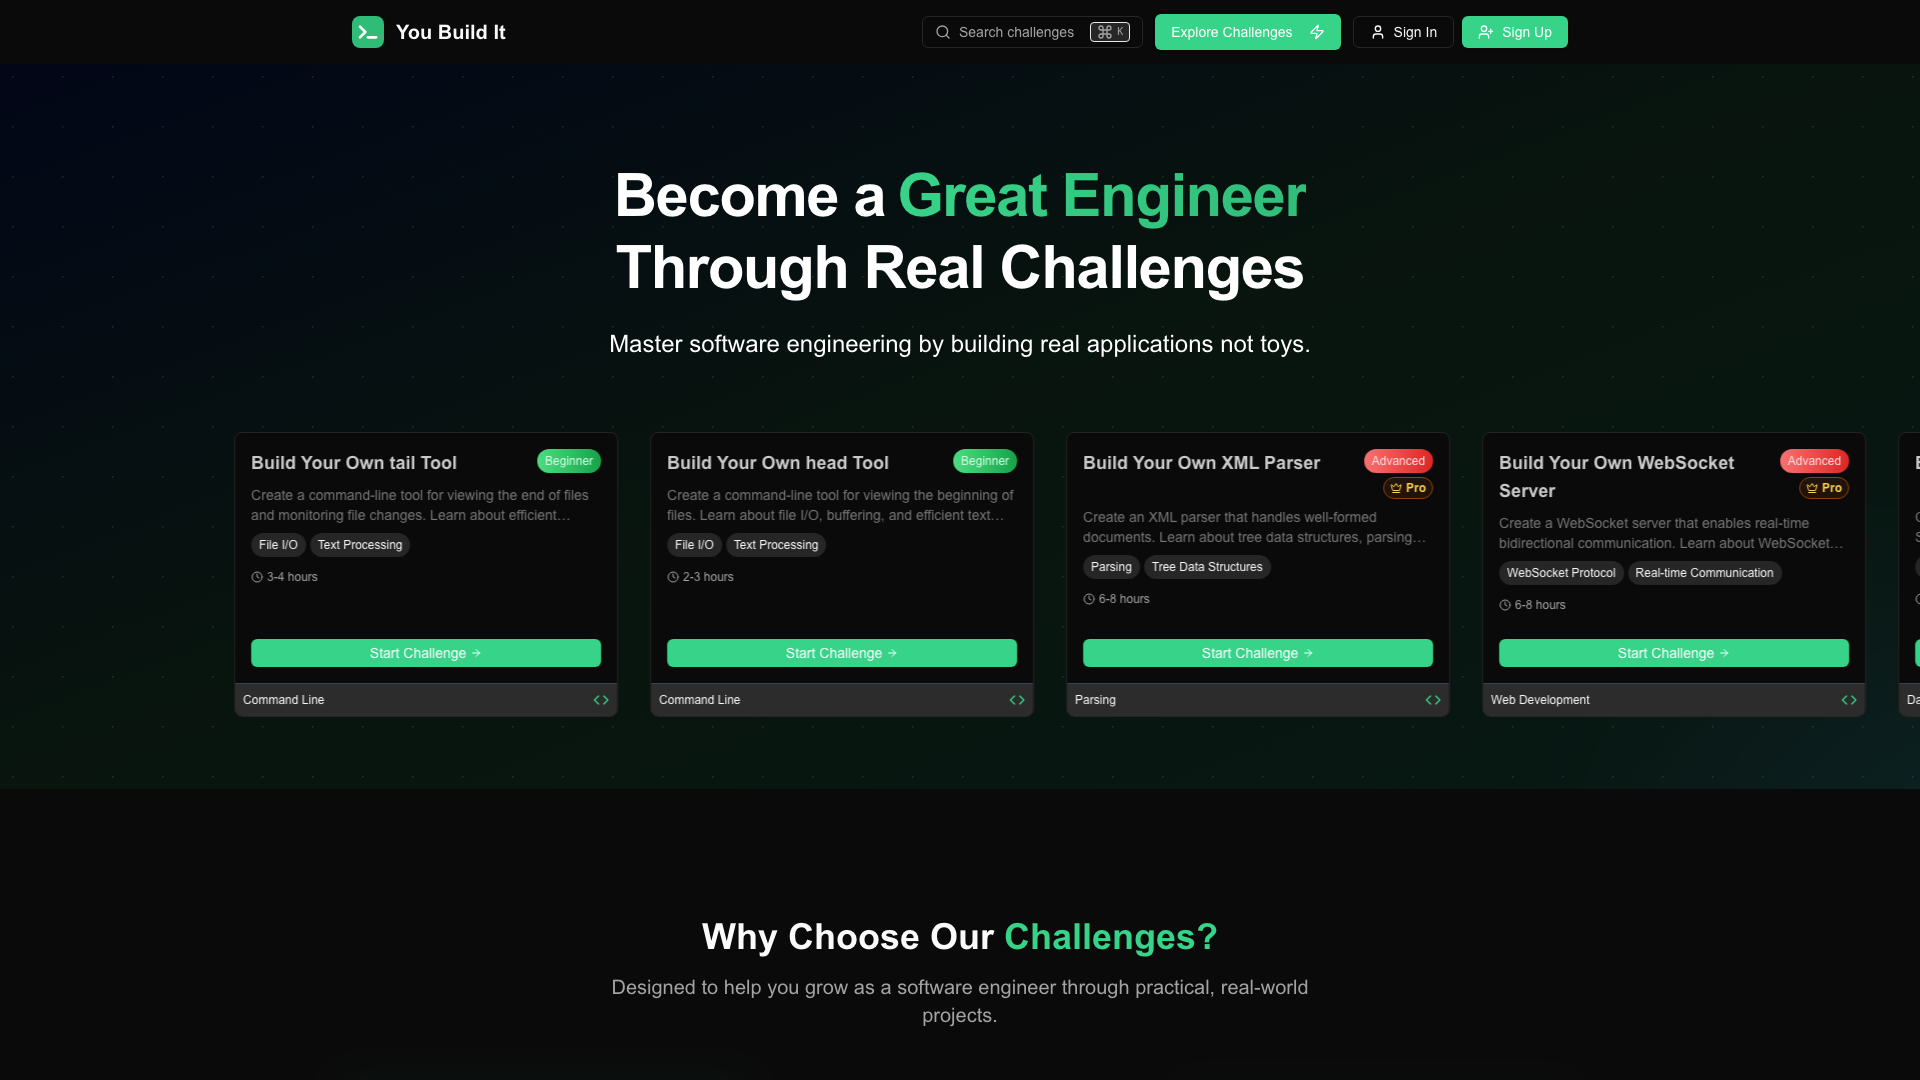
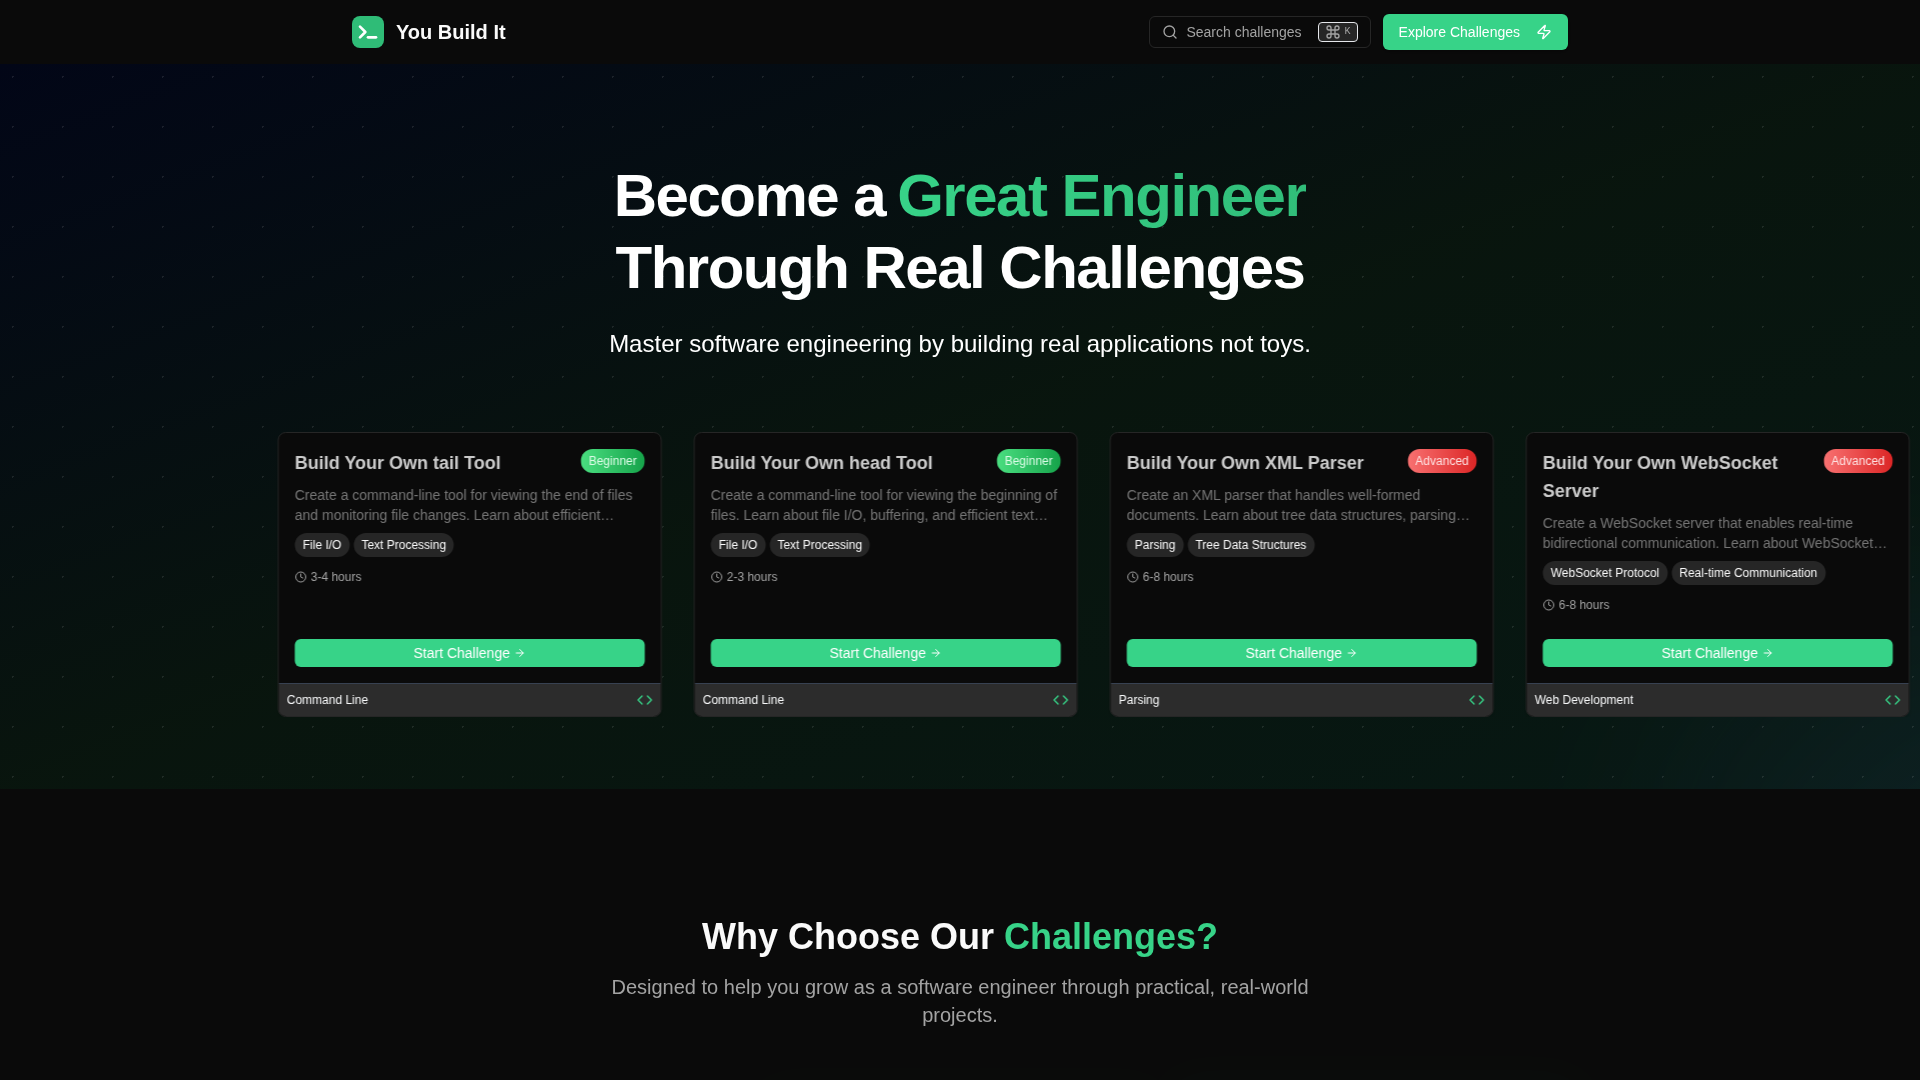
chore: point You Build It project to youbuildit.vercel.app (#7)
* chore: point You Build It project to youbuildit.vercel.app

Update project href and command palette link from youbuildit.dev to
youbuildit.vercel.app, and refresh the preview screenshot.

* refactor: centralize You Build It URL in shared constant

Address Sourcery review: derive href, command palette link, and subtitle
from a single YOUBUILDIT_URL constant, and document the intentional
name/URL mismatch in the project config.

* ci: fix coverage workflow (permissions + json-summary reporter)

- Add workflow permissions (contents:read, pull-requests:write) so the
  coverage comment steps can post (was failing 403 'not accessible by
  integration').
- Emit json-summary coverage reporter so coverage-summary.json exists
  (the Coverage Comparison job's cp was failing on a missing file).
- Force json-summary via CLI in the comparison job so the base-branch run
  produces the summary too, and rewrite the diff calc as a single Node
  script that tolerates a missing base summary (fixes a bc quoting bug).

Pull request: chore: point You Build It project to youbuildit.vercel.app
## What
- Repoint the **You Build It** project from `youbuildit.dev` to `https://youbuildit.vercel.app`
- Refresh the project preview screenshot

## Changes
- `src/lib/projects/config.ts` — `href` → `https://youbuildit.vercel.app`
- `src/components/layout/CommandPalette.tsx` — command link + subtitle → `youbuildit.vercel.app`
- `public/images/projects/previews/youbuildit.dev.png` — recaptured from the new URL

## Notes
- Kept the `name` field as `youbuildit.dev` so the existing preview path (`youbuildit.dev.png`) stays stable.

## Summary by Sourcery

Enhancements:
- Align the You Build It project link and command palette action with the new hosted URL.

diff --git a/src/lib/projects/config.ts b/src/lib/projects/config.ts
@@ -1,5 +1,12 @@
 import type { ProjectIconType } from "./icons";
 
+/**
+ * Single source of truth for the You Build It live URL.
+ * Consumed by the project card below and the command palette so the link
+ * never drifts across the two surfaces.
+ */
+export const YOUBUILDIT_URL = "https://youbuildit.vercel.app";
+
 export interface Project {
   name: string;
   href: string;
@@ -20,8 +27,11 @@ function withPreviews(list: Project[]): Project[] {
 
 export const projects: Project[] = withPreviews([
   {
+    // `name` stays "youbuildit.dev" intentionally: it's the brand label and
+    // also keys the preview asset path (youbuildit.dev.png). The live site is
+    // currently served from YOUBUILDIT_URL — don't "fix" this to match.
     name: "youbuildit.dev",
-    href: "https://youbuildit.dev",
+    href: YOUBUILDIT_URL,
     description:
       "Helping you become a better software engineer through coding challenges that build real applications.",
     icon: { kind: "component", id: "youbuildit" },

diff --git a/src/components/layout/CommandPalette.tsx b/src/components/layout/CommandPalette.tsx
@@ -37,6 +37,7 @@ import toast from "react-hot-toast";
 import { useTheme } from "@/components/ThemeProvider";
 import { useHomeLayout, useIsDesktop } from "@/hooks/use-home-layout";
 import { ProjectIcon, type ProjectIconType } from "@/lib/projects/icons";
+import { YOUBUILDIT_URL } from "@/lib/projects/config";
 
 interface SearchResult {
   type: "note" | "project";
@@ -337,10 +338,10 @@ export default function CommandPalette({
         id: "company-youbuildit",
         type: "company",
         title: "You Build It",
-        subtitle: "Visit youbuildit.dev",
+        subtitle: `Visit ${YOUBUILDIT_URL.replace(/^https?:\/\//, "")}`,
         icon: <Building2 className="h-5 w-5" />,
         action: () => {
-          window.open("https://youbuildit.dev", "_blank");
+          window.open(YOUBUILDIT_URL, "_blank");
           onClose();
         },
         keywords: ["you build it", "youbuildit"],

diff --git a/vitest.config.ts b/vitest.config.ts
@@ -13,7 +13,7 @@ export default defineConfig({
     exclude: ["**/node_modules/**", "**/dist/**", "**/.next/**"],
     coverage: {
       provider: "v8",
-      reporter: ["text", "json", "html", "lcov"],
+      reporter: ["text", "json", "json-summary", "html", "lcov"],
       exclude: [
         "node_modules/",
         "src/__tests__/",